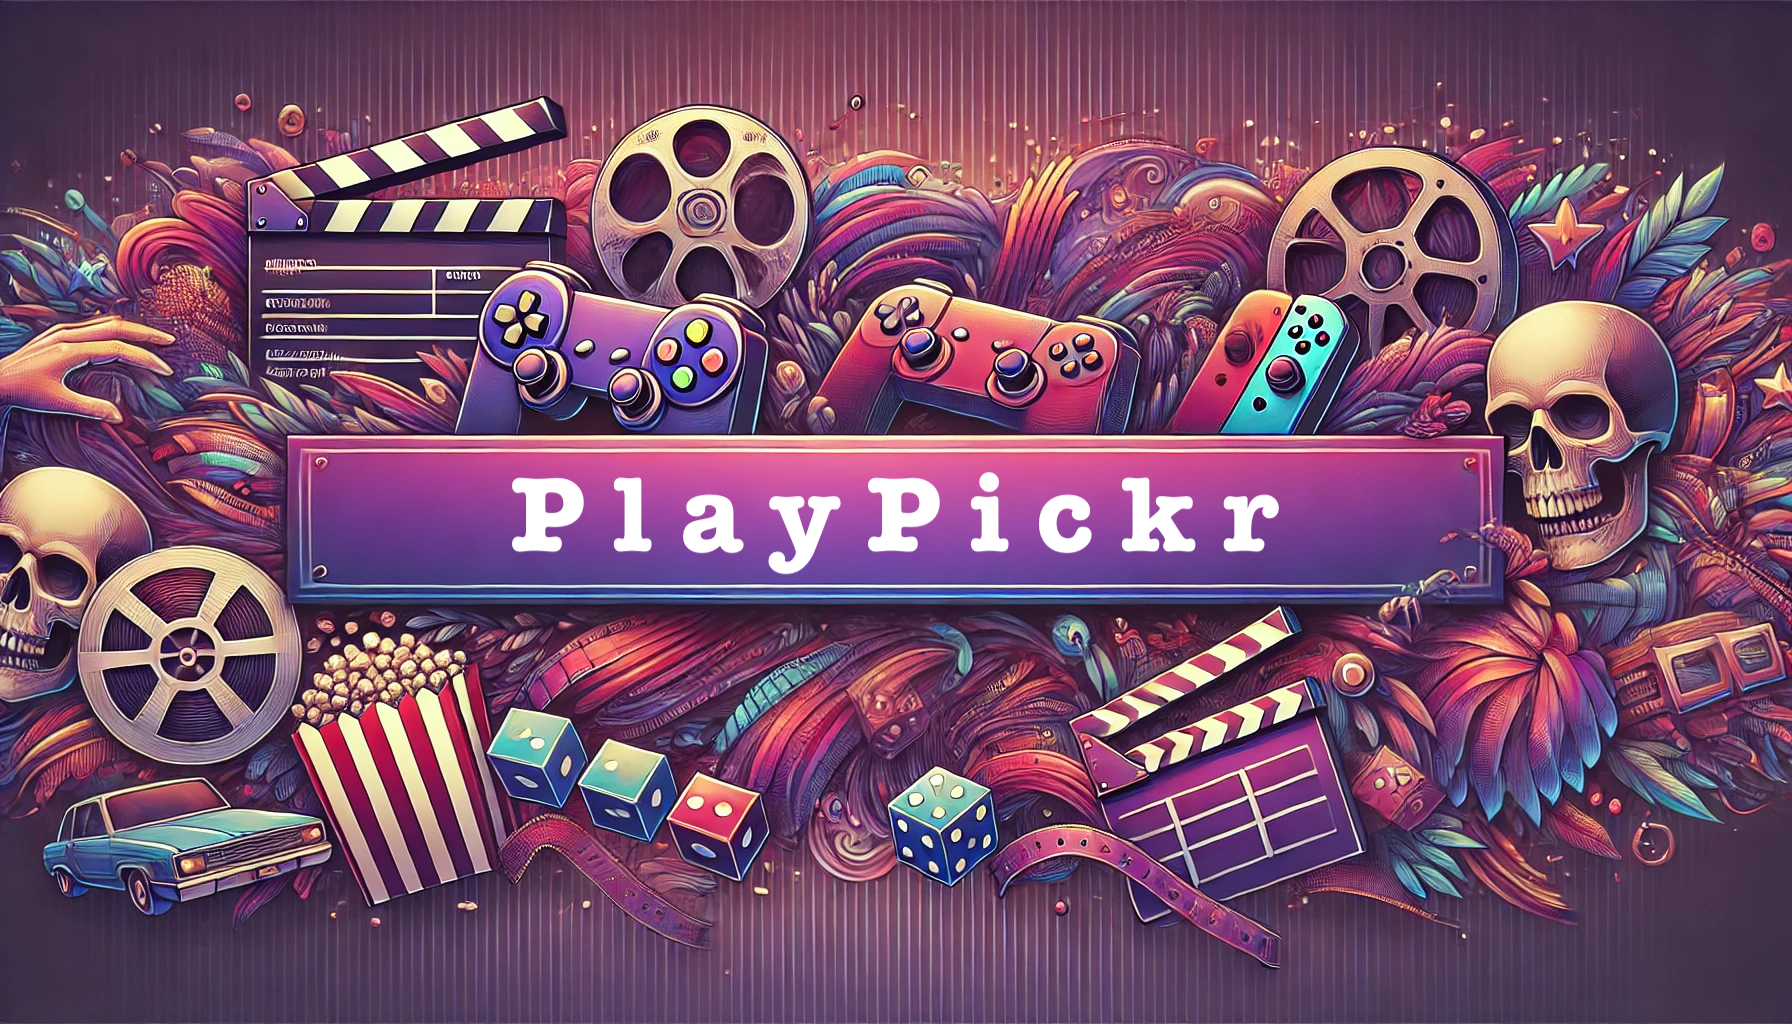
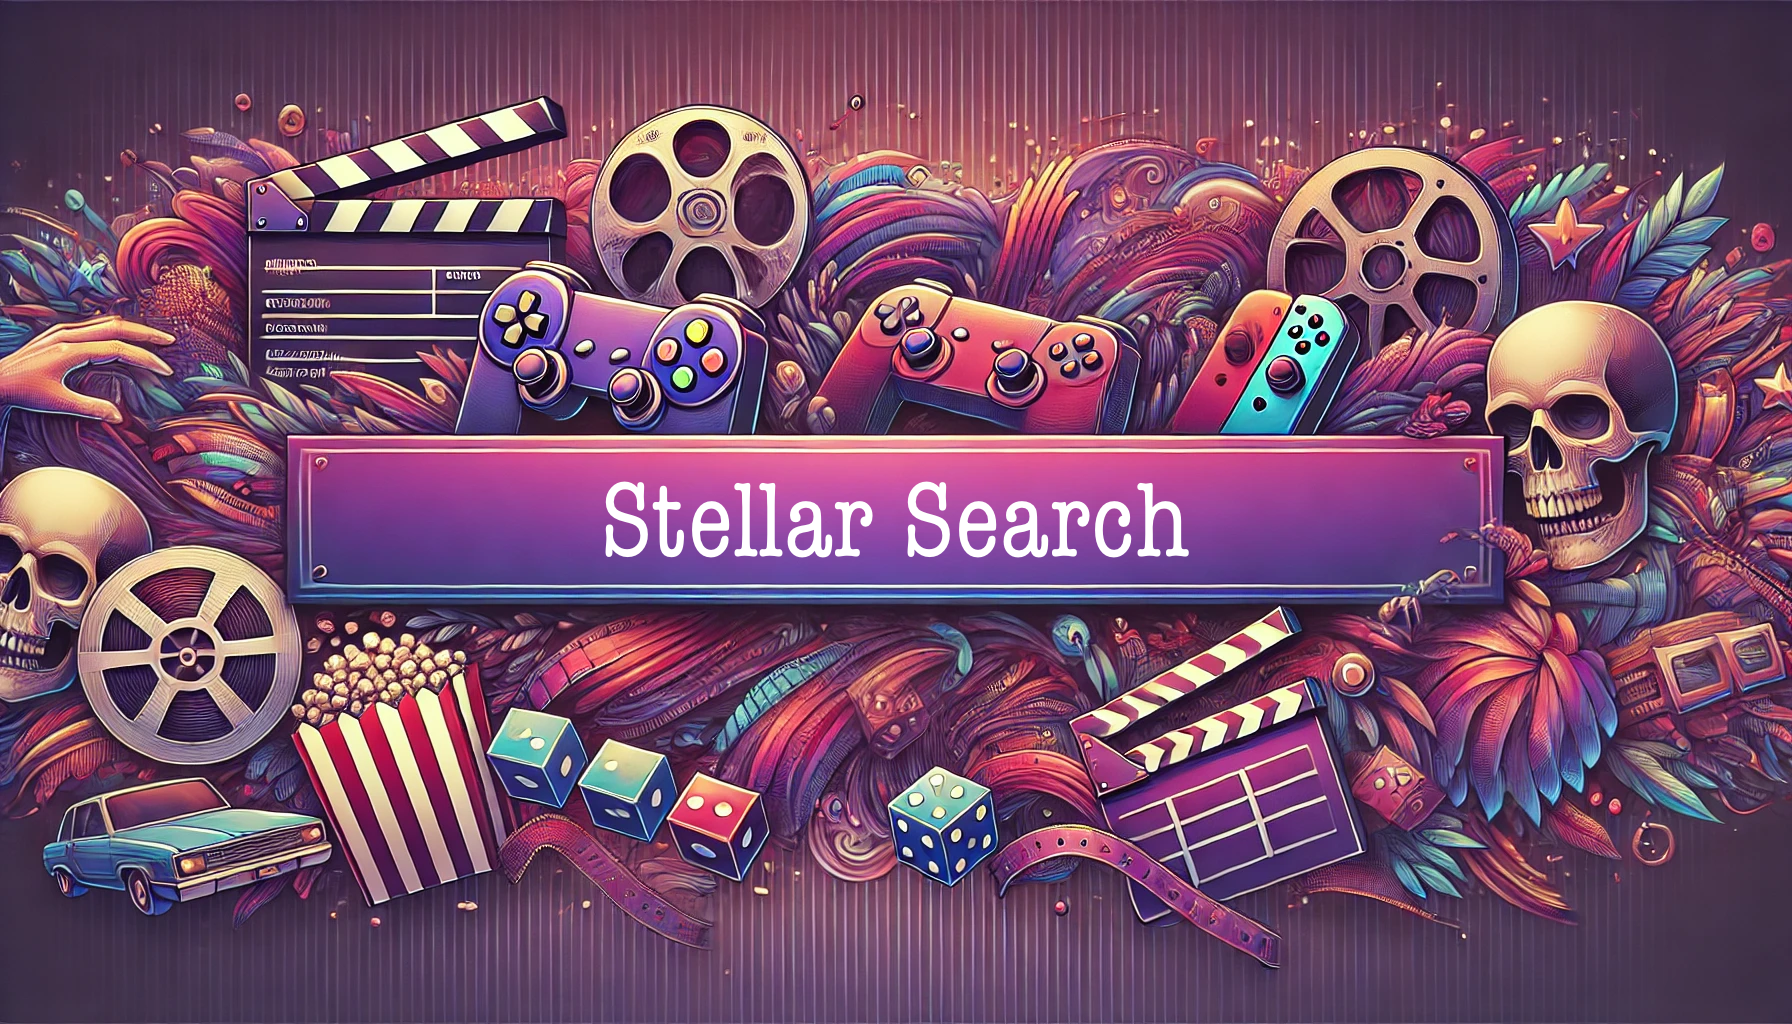
change name

Changed region(s): [[0.2812, 0.4688, 0.7188, 0.5625]]

diff --git a/index.html b/index.html
@@ -6,7 +6,7 @@
     <link rel="stylesheet" href="assets/style.css">
     <link rel="apple-touch-icon" href="assets/icon.jpg">
     <link rel="icon" href="assets/icon.jpg" type="image/x-icon">
-    <title>PlayPickr</title>
+    <title>StellarSearch</title>
 </head>
 <script src="https://cdn.jsdelivr.net/npm/sql.js@1.12.0/dist/sql-wasm.min.js"></script>
 <body>
@@ -15,7 +15,7 @@
             <img src="assets/banner.png" alt="Banner showcasing movies, retro video games, and board games" />
         </div>
         
-        <!-- <h1>Welcome to PlayPickr!</h1> -->
+        <!-- <h1>Welcome to StellarSearch!</h1> -->
         <p style="font-family: 'Courier Prime', 'Roboto Mono', monospace; font-size: 1.1em; line-height: 1.6;">
             Explore our family's curated collection of movies, video games, and board games. Discover and enjoy our favorite entertainment from different eras and genres. Whether you're in the mood for a cinematic classic, retro video game or tabletop adventure, this is your guide to all of our favorites!
             <br><br>Start by selecting an option below.
@@ -106,7 +106,7 @@ let db;
 async function loadDatabase() {
   try {
     const SQL = await initSqlJs(sqlConfig);
-    const response = await fetch('assets/playpickr.db');
+    const response = await fetch('assets/stellarsearch.db');
     if (!response.ok) {
       throw new Error(`HTTP error! status: ${response.status}`);
     }
@@ -484,7 +484,7 @@ document.addEventListener('DOMContentLoaded', () => {
     });
     </script>
     <footer>
-        <p>&copy; 2025 PlayPickr. 🎬🎮🎲</p>
+        <p>&copy; 2025 StellarSearch. 🎬🎮🎲</p>
     </footer>
 
 </body>
